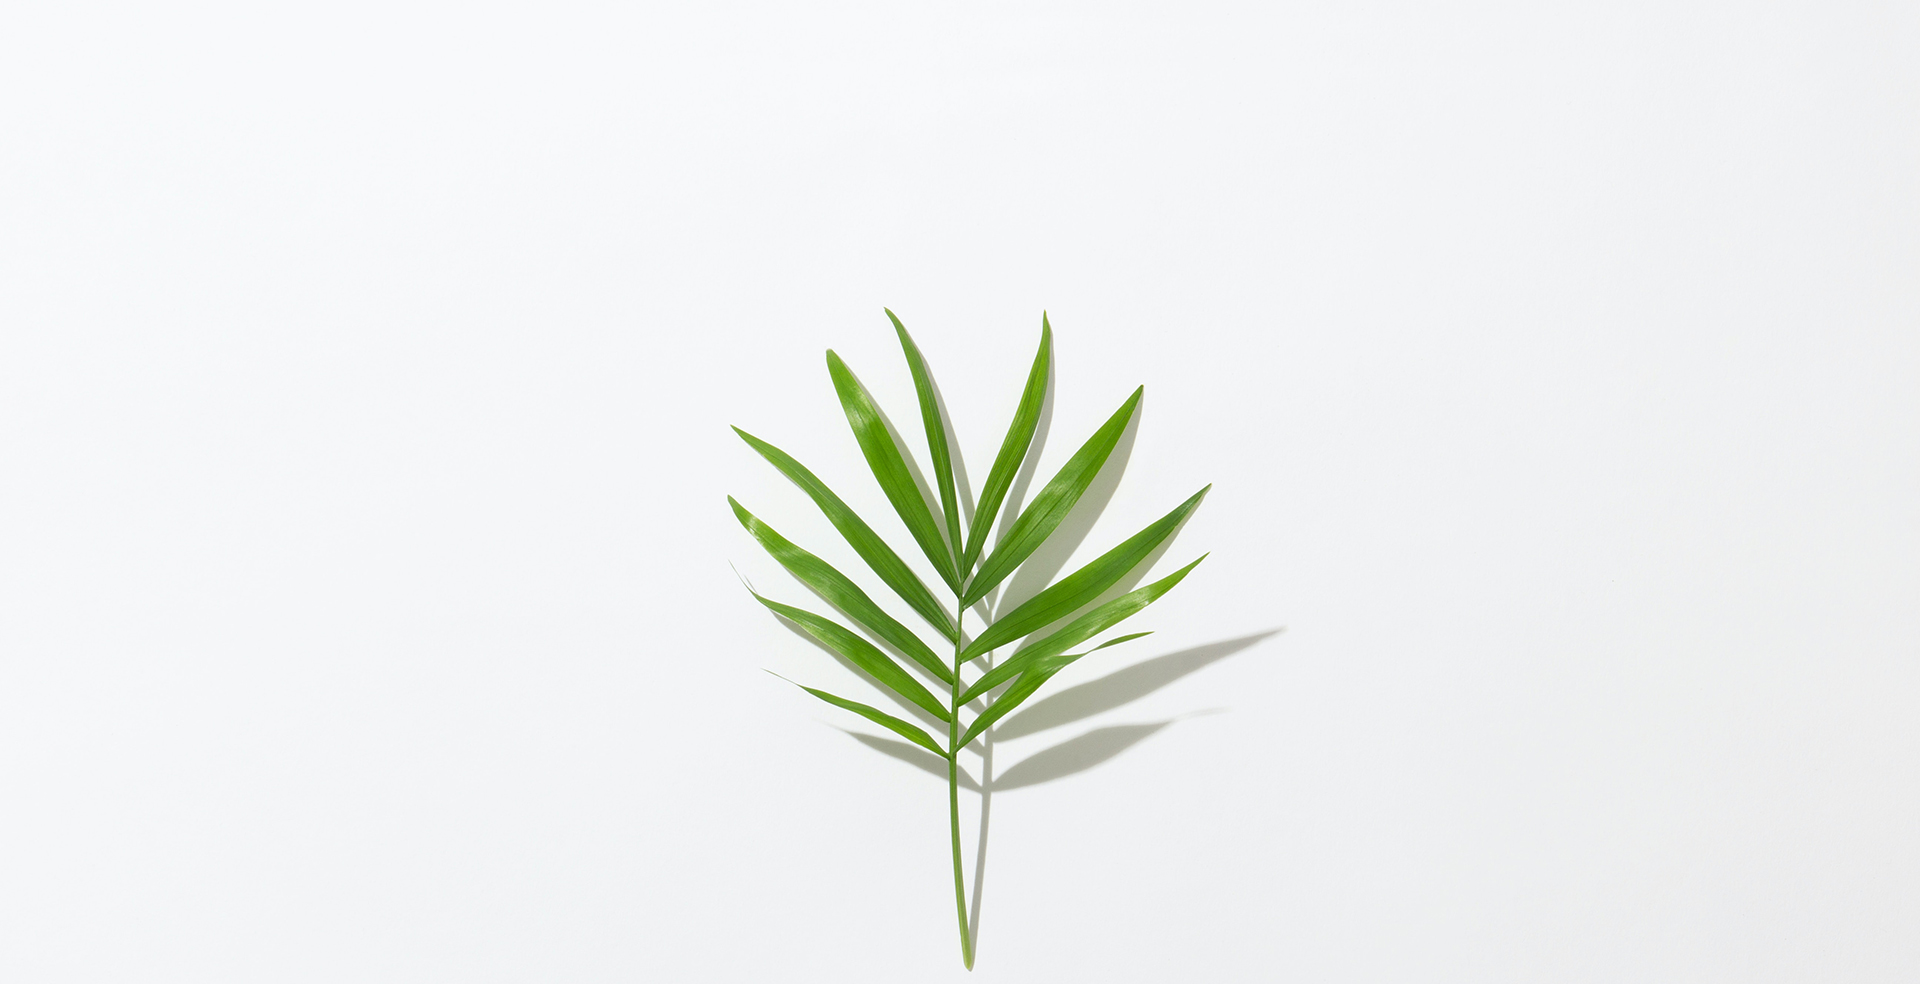
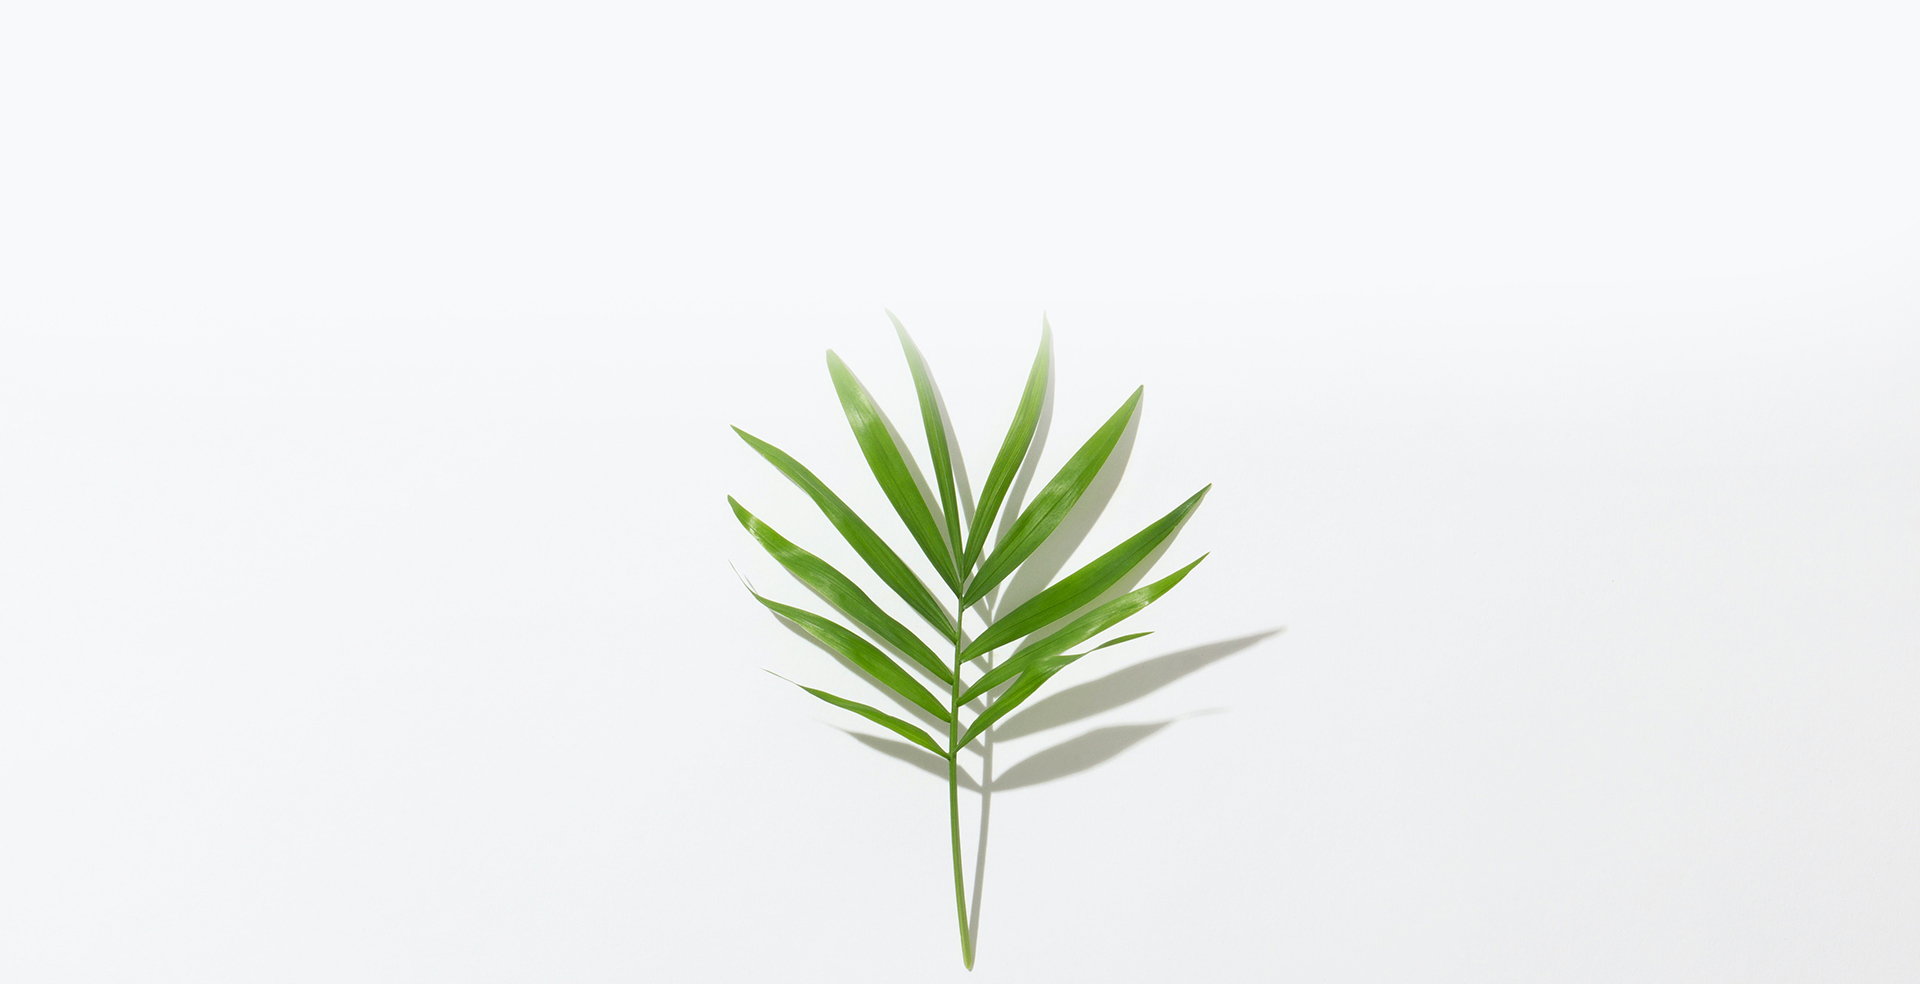
페이지 수정중

Changed region(s): [[0.4062, 0.3354, 0.5938, 0.4878], [0.375, 0.4268, 0.4062, 0.4573]]

diff --git a/index.html b/index.html
@@ -26,11 +26,10 @@
 <body>
     <div class="start_wrap">
         <p class="year_title">2024 Portfolio</p>
-        <h1>프론트엔드 포트폴리오 &#x1F33F;</h1>
+        <h1>프론트엔드 포트폴리오</h1>
         <p class="info">
-            성장하는 개발자 김용기입니다.
+            자라나는 새싹처럼 꾸준히 성장하는 개발자 김용기입니다
         </p>
-        <a href="#about" class="start_down">내리기▼</a>
     </div>
     <header>
         <nav>
@@ -44,15 +43,27 @@
     <main>
         <div class="main_wrap">
             <section id="about">
-                <h2><br>&#x1F680; Brave의 프로폴리오 페이지입니다.</h2>
-                <img src="./images/my_img2.jpg" alt="">
-                <p class="main_title">프론트엔드 개발자를 목표로하는 주니어 개발자입니다.</p>
-                <p>&#128512; 김용기</p>
-
-                <p class="addr_content"><em class="addr_title"></em>&#128231; august8821@naver.com</p>
-                <a href="https://github.com/"><p class="addr_content">&#x1F410; Git: </em>https://github.com/</p></a>
-                <p>&#128222; 010-3577-2781</p>
-                <p>카카오톡 문의 QR 준비중</p>
+                <h2>&#127794; Brave의 프로폴리오 페이지입니다.</h2>
+                <div class="profile">
+                    <p class="photo"><img src="./images/my_img2.jpg" alt=""></p>
+                    <div class="info">
+                        <p class="main_title">프론트엔드 개발자를 목표로하는 주니어 개발자입니다.</p>
+                        <p>&#128512; 김용기</p>
+                        <p class="addr_content"><em class="addr_title"></em>&#128231; august8821@naver.com</p>
+                        <a href="https://github.com/"><p class="addr_content">&#x1F410; Git: </em>https://github.com/</p></a>
+                        <p>&#128222; 010-3577-2781</p>
+                        <hr>
+                        <p>2023년 10월 ~ 2024년 03월	(산대특) 생성형 AI를 활용한 채팅기반 프론트엔드 개발자 과정	그린컴퓨터아카데미	수료</p>
+                        <P>2023 04월 05 ~ 2023년 05월10일 구글 애널리틱스 완전 정복 : GA4 탑재강의 수료 </P>
+                        <p>2022년 04월18 ~ 2022년 04월22일  Oracle SQL 기초 이해부터 실무활용 과정</p>
+                        <p>2022년 03월28 ~ 2022년 04월08일 JAVA 프로그래밍 기초 입문과정</p>
+                        <p>2021년 06월 ~ 2021년 12월JAVA Spring 웹 개발자 과정	구트 아카데미 수료</p>
+                        <p>2020년 09월 ~ 2020년 11월 영상편집 초급(프리미어 및 애프터이펙트) 과정 수료</p>
+                        <hr>
+                        <p>2022 년 03월 ~ 2022년 07월	타임소프트	SI개발	정규직</p>
+                       
+                    </div>
+                </div>
             </section>
             <section id="my_skills">
                 <h2>&#x1F4BB; 기술능력</h2>
@@ -62,8 +73,6 @@
                     <li><img src="./images/skill_icon/js2.png" alt=""><p>JavaScript</p></li>
                     <li><img src="./images/skill_icon/java.png" alt=""><p>JAVA</p></li>
                     <li><img src="./images/skill_icon/oracle.png" alt=""><p>Oracle</p></li>
-                </ul>
-                <ul class="my_skills_ul">
                     <li><img src="./images/skill_icon/notion1.png" alt=""><p>Notion</p></li>
                     <li><img src="./images/skill_icon/gpt1.jpg" alt=""><p>ChatGpt</p></li>
                     <li><img src="./images/skill_icon/react.svg" alt=""><p>React</p></li>
@@ -75,18 +84,23 @@
                 <h2>&#x1F4D6; 진행한 프로젝트</h2>
                 <ul class="swiper-wrapper">
                     <li class="swiper-slide">
-                        <a href="#" target="_blank"><img src="./images/my_port1.png" alt=""></a>
-                        <p>국립현대미술관 Project</p>
-                        <a href="#" target="_blank">프로젝트 기획링크</a>
+                        <a href="#" target="_blank" class="photo" title="클릭 시 프로젝트 결과로 이동합니다"><img src="./images/my_port1.png" alt=""></a>
+                        <h3>국립현대미술관 Project</h3>
+                        <p>개인 프로젝트</p>
+                        <p>skill : html, css, javascript, api, jquery, figma, github</p>
+                        <a href="#" target="_blank" class="view">프로젝트 기획링크</a>
                     </li>
                     <li class="swiper-slide">
-                        <a href="http://eunsung00.dothome.co.kr/#" target="_blank"><img src="./images/my_port2.png" alt=""></a>
-                        <p>Team Project Wavve</p>
-                        <a href="https://www.figma.com/file/d97P1f5xxpEmgM6TqXLsxs/2%EC%A1%B0-Wavve-%ED%8C%80-%ED%94%84%EB%A1%9C%EC%A0%9D%ED%8A%B8?type=design&node-id=0-1&mode=design&t=nIeRIr4gu9Pj7AF2-0"  target="_blank">프로젝트 기획링크</a>
+                        <a href="http://eunsung00.dothome.co.kr/#" target="_blank"  class="photo"  title="클릭 시 프로젝트 결과로 이동합니다"><img src="./images/my_port2.png" alt=""></a>
+                        <h3>Wavve</h3>
+                        <p>Team Project(4인)</p>
+                        <p>참여도 : 제작페이지명, 제작페이지명</p>
+                        <p>skill : html, css, javascript, api, jquery, figma, github</p>
+                        <a class="view" href="https://www.figma.com/file/d97P1f5xxpEmgM6TqXLsxs/2%EC%A1%B0-Wavve-%ED%8C%80-%ED%94%84%EB%A1%9C%EC%A0%9D%ED%8A%B8?type=design&node-id=0-1&mode=design&t=nIeRIr4gu9Pj7AF2-0"  target="_blank">프로젝트 기획링크</a>
                     </li>
                     <li class="swiper-slide">
-                        <a href="#"  target="_blank"><img src="./images/project_Preparing800.png" alt=""></a>
-                        <p>준비중입니다</p>
+                        <a href="#"  target="_blank" class="photo"  title="클릭 시 프로젝트 결과로 이동합니다"><!--프로젝트 제작 시 이미지 삽입위치--></a>
+                        <h3>준비중입니다</h3>
                     </li>
                 </ul>
                 <!-- prev next 자리 -->
@@ -97,7 +111,7 @@
     </main>
     <footer>
         <div class="mail">
-            <a href="#"><h1>&#x1F4E9; 메일문의<img src="./images/icon/chevron-down-solid.svg" alt="">
+            <a href="#"><h1>&#x1F4E9; 메일문의<!-- <img src="./images/icon/chevron-down-solid.svg" alt=""> -->
             </h1></a>
             <form action="https://api.web3forms.com/submit" method="POST" id="mailFrm">
                 <!-- <input type="hidden" name="access_key" value="YOUR_ACCESS_KEY_HERE"> -->
@@ -105,14 +119,12 @@
                 <input type="hidden" name="access_key" value="86501c66-6d05-4bf1-900e-39610a4f84cd">
                 <input type="text" name="name" required placeholder="Name">
                 <input type="email" name="email" required placeholder="email">
-                <textarea name="message" required placeholder="Content"></textarea>
-                <div class="h-captcha" data-captcha="true"></div>
+                <textarea name="message" required placeholder="연락처 및 메일로 연락주시면 빠르게 확인 후 답변드리겠습니다. 감사합니다."></textarea>
+ <!--                <div class="h-captcha" data-captcha="true"></div> -->
                 <button type="submit" id="sendbtn" class="btn btn-outline-light" data-bs-toggle="popover" title="Popover title" data-bs-content="메일을 보냈습니다.">보내기</button>
             </form>
             <script src="https://web3forms.com/client/script.js" async defer></script>
         </div>
-        <div class="addr">
-            <h1>주소</h1>
     </footer>
     <script src="script/index.js"></script>
 </body>

diff --git a/style/portfolio2.css b/style/portfolio2.css
@@ -3,12 +3,12 @@
 }
 /* intro 첫번째 영역 */
 .start_wrap {
-  background: url(../images/img1.jpg) center;
+  background:#f7f9fb url(../images/img1_2.jpg) no-repeat center;
   background-size:cover;
-  height: 130vh;
+  height: 100vh;
   width: 100vw;
   text-align: center;
-  padding: 15% 0 0 0;
+  padding: 18.4% 0 0 0;
 }
 .start_wrap p {
   color: #a1a1a1;
@@ -20,24 +20,19 @@
   font-weight: bold;
 }
 .start_wrap h1 {
-  color: #a1a1a1;
-  font-size: 3rem;
+  color: #87A922;
+  font-size: 5rem;
   line-height: 1.7;
   font-weight: bold;
 }
 .start_wrap .info {
   margin-bottom: 20px;
+  color:#114232;
+  font-size:2rem;
 }
-.start_wrap .start_down {
-  color: #a1a1a1;
-  font-weight: bold;
-}
-/* 마우스를 올렸을 때의 네비게이션 바 링크 색상 */
-.start_wrap .start_down:hover {color: darkgreen;}
-
 /* header */
 header {
-  background-color: #B1E6D1;
+  background-color: #114232;
   color: #fff;
   padding: 35px;
   text-align: center;
@@ -75,31 +70,40 @@ main .main_wrap > section h2 {
   padding-bottom: 20px;
 }
 /* section 개별 이름 about > my_skills > project(swiper-container) 순서 */
-main .main_wrap #about {}
+main .main_wrap #about {
+  padding-top:40px;
+}
 main .main_wrap #about h2 {
   padding-bottom: 30px;
   font-size: 27px;
 }
-main .main_wrap #about .main_title {
+main .main_wrap #about .profile {
   font-size: 25px;
   margin-bottom: 20px;
+  display:flex;
 }
-main .main_wrap #about > img {
-  width: 20%;
-  margin-top: 40px;
-  margin-bottom: 30px;
+main .main_wrap #about .profile .photo {
+  width: 20%; margin: 40px 20px 30px 0;
 }
-
-main .main_wrap #about > p {
+main .main_wrap #about .profile .photo img {width:100%;}
+main .main_wrap #about .profile .info {
+  padding-top: 28px;
+}
+main .main_wrap #about .profile .info .main_title {}
+main .main_wrap #about .profile .info p {
+  font-weight: bold;
+  font-size: 20px;
+  margin-top: 5px;
+  line-height:1.7;
+}
+main .main_wrap  #about .profile .info .addr_content {
   font-weight: bold;
   font-size: 20px;
   margin-top: 5px;
 }
-main .main_wrap  #about  .addr_content {
-  font-weight: bold;
-  font-size: 20px;
-  margin-top: 5px;
-}
+main .main_wrap #about .profile .info .addr_content .addr_title {}
+main .main_wrap #about .profile .info a {}
+main .main_wrap #about .profile .info a .addr_content {}
 main .main_wrap #my_skills {
   margin: 80px 0px 80px 0px;
 }
@@ -111,20 +115,19 @@ main .main_wrap #my_skills .my_skills_ul {
   text-align: center;
 }
 main .main_wrap #my_skills .my_skills_ul li {
-  display: contents; 
-  padding: 10px; 
+  display: flex;
+  flex-flow: column;
+  justify-content: flex-start;
+  align-items: center;
+  text-align: center;
+  padding: 10px;
   margin: 0 10px;
 }
 main .main_wrap #my_skills .my_skills_ul li img {
-  width: 30px;
-  height: auto;
-  margin-right: 5px;
+  width: 50px; height: auto;
 }
 main .main_wrap #my_skills .my_skills_ul li p {
-  font-size: 25px;
-  margin-top: 10px;
-  margin-right: 35px;
-  font-weight: bold;
+  font-size: 16px; padding-top:10px;
 }
 main .main_wrap #projects {
   position: relative;
@@ -139,15 +142,31 @@ main .main_wrap #projects .swiper-wrapper .swiper-slide {
   padding: 20px 10px 20px 10px;
 }
 /* 이미지 클릭 시 포트폴리오 새 창 링크 */
-main .main_wrap #projects .swiper-wrapper .swiper-slide a {}
-main .main_wrap #projects .swiper-wrapper .swiper-slide a img {
-  width: 400px; height: 198px;
+main .main_wrap #projects .swiper-wrapper .swiper-slide .photo {
+  border:2px solid #114232; display:inline-block;
+  width:100%; height:350px; overflow:hidden;
+  background:url(../images/project_Preparing800.png) center;
+  background-size:cover;
+}
+main .main_wrap #projects .swiper-wrapper .swiper-slide .photo:hover {
+  filter:brightness(110%)
+}
+main .main_wrap #projects .swiper-wrapper .swiper-slide .photo img {width:100%;}
+main .main_wrap #projects .swiper-wrapper .swiper-slide h3 {
+  font-size:1.5rem; padding-top:10px;
 }
 main .main_wrap #projects .swiper-wrapper .swiper-slide p {
-  font-size: 20px; font-weight: bold;
+  font-size: 20px; margin-top:10px;
 }
 /* 기획페이지 새 창 링크 */
-main .main_wrap #projects .swiper-wrapper .swiper-slide p+a {}
+main .main_wrap #projects .swiper-wrapper .swiper-slide .view {
+  margin-top:20px;
+  background:#87A922; border-radius:2px;
+  padding:10px 20px; display:inline-block; color:#fff;
+}
+main .main_wrap #projects .swiper-wrapper .swiper-slide .view:hover {
+  background:#114232;
+}
 /* prev, next */
 main .main_wrap #projects .swiper-button-prev {
   position: absolute; color: #000;
@@ -159,28 +178,31 @@ main .main_wrap #projects .swiper-button-prev:hover {color: darkgreen;}
 main .main_wrap #projects .swiper-button-next:hover{color: darkgreen;}
 /* footer */
 footer {
-  background: #B1E6D1;
+  background: #114232;
   display: flex;
   padding: 0px 30px 0px 30px;
 }
 footer .mail {
-  padding: 0 40px; margin-top: 30px;
+  padding: 0 40px;
+  margin-top: 30px;
+  width: 1200px;
+  margin: 0 auto;
 }
 footer .mail a {}
 footer .mail a h1 {
-  font-size: 25px;
+  font-size: 25px; color:#fff;
   padding: 20px 0px 20px 0px;
-  border-bottom: 1px solid #000;
 }
 footer .mail a img {
   padding-left: 5px;
   width: 25px;
   height: 25px;
 }
-footer .mail #mailFrm {display: none;}
+footer .mail #mailFrm {
+}
 footer .mail #mailFrm input {
   background: #fff;
-  width: 300px;
+  width: 100%;
   height: 47px;
   border-radius: 5px;
   margin: 20px 0px 20px 0px;
@@ -191,12 +213,13 @@ footer .mail #mailFrm input[type=text] {}
 footer .mail #mailFrm input[type=email] {}
 footer .mail #mailFrm textarea {
   margin-bottom: 20px;
-  width: 300px;
+  width: 100%; height:200px;
   border-radius: 5px;
   padding: 12px 0px 0px 10px;
 }
 footer .mail #mailFrm #sendbtn {
-  color: #000; margin-top: 20px;
+  color: #605f67;
+  background:#fff; width:50%;
 }
 footer .addr {margin-left: 70px;}
 footer .addr h1 {

diff --git a/style/reset.css b/style/reset.css
@@ -8,12 +8,17 @@ table,tr,td,th,thead,tbody,tfoot,
 form,fieldset,legend,input,select,option,button,label,textarea,
 header,main,footer,nav,section,article,figcaption,figure,aside,
 address,details,mark,time,video,img,summary,iframe,div {
-    margin:0; padding:0;
-    font-size:1.0rem; font-style:normal; /* font-weight:normal; */
-   /*  font-weight:bold; */
-    line-height:1.2; color:#000; /* 1.2 - > 120% 같은 말 */
-    text-decoration:none; /* font-family: 'Noto Sans KR', sans-serif; */
-    font-family: 'Spoqa Han Sans Neo', 'sans-serif';
+    margin:0;
+    padding:0;
+    font-size:1.0rem;
+    font-style:normal;
+    /* font-weight:normal; */
+    /*  font-weight:bold; */
+    line-height:1.2;
+    color:#000; /* 1.2 - > 120% 같은 말 */
+    text-decoration:none;
+    /* font-family: 'Noto Sans KR', sans-serif; */
+    /* font-family: 'Spoqa Han Sans Neo', 'sans-serif'; */
 }
 ul,ol,li {list-style:none;}
 button {cursor:pointer;} /* 커서를 포인터 모양으로 버튼에 마우스를 대면 손모양 */
